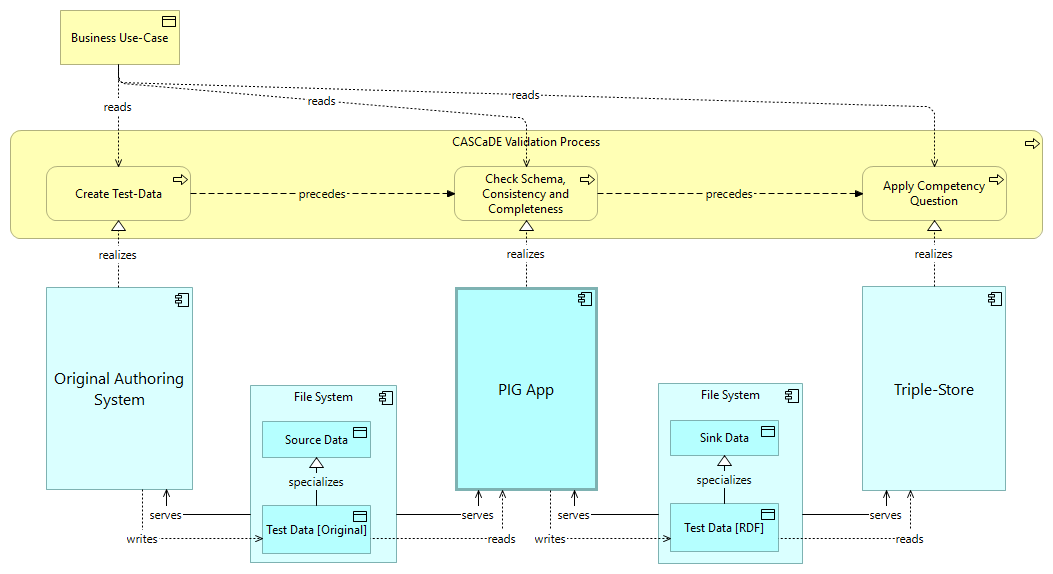
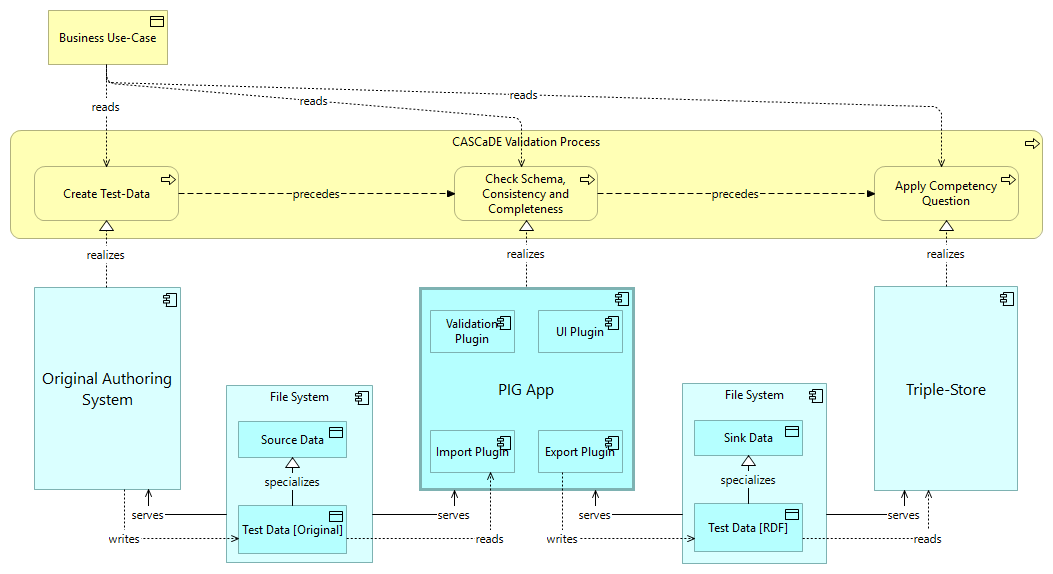
update validation concept

diff --git a/validation/process/index.html b/validation/process/index.html
@@ -1,84 +1,1 @@
-<?xml version="1.0" encoding="UTF-8"?>
-<!DOCTYPE html PUBLIC "-//W3C//DTD XHTML 1.1//EN" "http://www.w3.org/TR/xhtml11/DTD/xhtml11.dtd">
-<html xmlns="http://www.w3.org/1999/xhtml">
-	<head>
-		<link rel="stylesheet" href="https://cdn.jsdelivr.net/npm/bootstrap@5.3.3/dist/css/bootstrap.min.css" crossorigin="anonymous"/>
-		<link rel="stylesheet" type="text/css" href="./Styles/styles.css"/>
-		<title>PIG Validation</title>
-	</head>
-	<body>
-		<div class="container max-width-lg">
-			<div class="row">
-				<div class="col-12">
-					<div class="title">PIG Validation</div>
-				</div>
-			</div>
-			<div class="row">
-				<div class="col-12 col-md-3">
-					<h3 style="margin-top:2.4rem;">Content</h3>
-					<ul>
-						<li>
-							<a href="#H-ArchiMate-53122845">PIG Validation</a>
-						</li>
-						<ul>
-							<li>
-								<a href="#N--1446217915">Model Diagrams</a>
-							</li>
-						</ul>
-						<li>
-							<a href="#N-FolderGlossary-10053122845">Model Elements (Glossary)</a>
-						</li>
-					</ul>
-				</div>
-				<div class="col-12 col-md-9">
-					<h1 id="H-ArchiMate-53122845">PIG Validation</h1>
-					<p>The model shows a concept to validate the upcoming standard. </p>
-					<p>
-						<a href="https://cascade.gfse.org">CASCaDE</a> is a project to standardize collaboration in systems engineering with respect to data format and ontology. A <a href="https://www.omg.org/cgi-bin/doc?mantis/24-12-03.pdf">Request for Proposal (RFP)</a> has been accepted by OMG in December 2024. Information in different formats and from diverse sources are transformed and integrated to a common knowledge graph.</p>
-					<p>A publicly available reference implementation shall validate the concepts of the standard as developed by the CASCaDE submission team. Validation is successful, if real-world data is ingested and the information needs of all users in the product lifecycle are met. Users and software vendors are given the opportunity to influence the project to assure their ideas are taken aboard. A joint effort on fundamental features (where differentiation isn&#39;t possible anyways) avoids duplicate work, improves quality and assures interoperability.</p>
-					<h2 id="N--1446217915">Model Diagrams</h2>
-					<h3 id="N-353613390">▣&#160;&#160;Validation Workflow</h3>
-					<p>A process to validate the conceptional and technical choices made by the standard in preparation. This is preliminary and needs further discussion and detailing with the target users. Ultimately, the standard must satisfy their use-cases and needs in general.</p>
-					<p>Subject to validation:</p>
-					<ul>
-						<li>Has the <a href="https://cascade.gfse.org/results/Latest%20Metamodel/">PIG metamodel</a> enough expressive power to deal with real-world data?</li>
-						<li>Can the data be transformed between RDF/Turtle, JSON-LD and GQL without loss? In all directions and in a full round-trip?</li>
-						<li>Are the transformation results consistent, complete, comprehensible and finally useful?</li>
-						<li>Can the user&#39;s &#39;competency questions&#39; be satisfactorily answered?</li>
-					</ul>
-					<p>This model is authored with <a href="https://www.archimatetool.com/">Archi</a> using the ArchiMate 3.2 notation, then transformed to <a href="https://specif.de">SpecIF</a> via ArchiMate Open Exchange file format and then transformed to HTML. The PIG App will support a similar workflow (among others) for the source data formats chosen.</p>
-					<p>
-						<img src="./Images/F-1845497690.png" style="max-width:100%" alt="Validation Workflow.png"/>
-					</p>
-					<h1 id="N-FolderGlossary-10053122845">Model Elements (Glossary)</h1>
-					<h3 id="N-11117650302">&#x25A1;&#160;&#160;Apply Competency Question</h3>
-					<p>Once transformed to RDF/Turtle, still according to the PIG metamodel, user-defined competency questions shall be applied to the test-data. Those queries shall validate that the graph fulfills the information needs of the various user roles accessing the data. An important criterion is that the same (i.e. <em>standard</em>) queries yield the desired results with different data sets. Only then, normalization with repsect to syntax and semantics is successful. It is expected, however, that the competency questions, the queried, depend on the ontology with the the current set of <em>preferred terms</em>.</p>
-					<h3 id="N-11863653636">&#x25CB;&#160;&#160;Business Use-Case</h3>
-					<p>A set of use-cases describing the user&#39;s need. Must be exemplary (concrete), relevant and representative.</p>
-					<h3 id="N-8248320296">&#x25A1;&#160;&#160;CASCaDE Validation Process</h3>
-					<h3 id="N-9409445317">&#x25A1;&#160;&#160;Check Schema, Consistency and Completeness</h3>
-					<p>Once transformed according to the PIG metamodel, the data shall be checked with respect to schema (shape, format), consistency (constraints) and completeness. Both formally and by expert inspection.</p>
-					<h3 id="N-8618890478">&#x25A1;&#160;&#160;Create Test-Data</h3>
-					<p>Create test-data in original format as produced by popular authoring systems of the domain, for example IBM DOORS for requirement management or Cameo for systems engineering.</p>
-					<p>Initially, test-data should be small and cover relevant and typical aspects of the domain to drive and validate the development of transformations. Later on, real or near-real project data &#39;from the field&#39; with growing complexity should be supplied.</p>
-					<h3 id="N-11802892691">&#x25A1;&#160;&#160;File System</h3>
-					<p>A network file system. Consider to use</p>
-					<ul>
-						<li>Windows/MacOS/Linux NFS</li>
-						<li>Samba</li>
-						<li>Git</li>
-					</ul>
-					<h3 id="N-8583794264">&#x25A1;&#160;&#160;Original Authoring System</h3>
-					<h3 id="N-10373993524">&#x25A1;&#160;&#160;PIG App</h3>
-					<p>A web application for creating, reading, updating and deleting data elements per class. The app is configured by the classes loaded at initialization time. The classes govern the choice and the dialog layout for modifying the data. Thus, the same software is used for more or less complex applications.</p>
-					<h3 id="N-8429901407">&#x25CB;&#160;&#160;Sink Data</h3>
-					<h3 id="N-10709804402">&#x25CB;&#160;&#160;Source Data</h3>
-					<h3 id="N-10598076715">&#x25CB;&#160;&#160;Test Data [Original]</h3>
-					<h3 id="N-9862198495">&#x25CB;&#160;&#160;Test Data [RDF]</h3>
-					<h3 id="N-9356671768">&#x25A1;&#160;&#160;Triple-Store</h3>
-					<p>A standard database for knowledge graphs, e.g. Apache Fuseki.</p>
-				</div>
-			</div>
-		</div>
-	</body>
-</html>
+<?xml version="1.0" encoding="UTF-8"?><!DOCTYPE html PUBLIC "-//W3C//DTD XHTML 1.1//EN" "http://www.w3.org/TR/xhtml11/DTD/xhtml11.dtd"><html xmlns="http://www.w3.org/1999/xhtml"><head><link rel="stylesheet" href="https://cdn.jsdelivr.net/npm/bootstrap@5.3.3/dist/css/bootstrap.min.css" crossorigin="anonymous" /><link rel="stylesheet" type="text/css" href="./Styles/styles.css" /><title>PIG Validation</title></head><body><div class="container max-width-lg" ><div class="row" ><div class="col-12" ><div class="title">PIG Validation</div></div></div><div class="row" ><div class="col-12 col-md-3" ><h3 style="margin-top:2.4rem;">Content</h3><ul><li><a href="#H-ArchiMate-53122845">PIG App</a></li><ul><li><a href="#N--1446217915">Model Diagrams</a></li></ul><li><a href="#N-FolderGlossary-10053122845">Model Elements (Glossary)</a></li></ul></div><div class="col-12 col-md-9" ><h1 id="H-ArchiMate-53122845">PIG App</h1><p>This is the concept of the PIG App used to validate the standard in preparation.</p><p><a href="https://cascade.gfse.org">CASCaDE</a> is a project to standardize collaboration in systems engineering with respect to data format and ontology. A <a href="https://www.omg.org/cgi-bin/doc?mantis/24-12-03.pdf">Request for Proposal (RFP)</a> has been accepted by OMG in December 2024. Information in different formats and from diverse sources are transformed and integrated to a common knowledge graph.</p><p>A publicly available reference implementation shall validate the concepts of the standard as developed by the CASCaDE submission team. Validation is successful, if real-world data is ingested and the information needs of all users in the product lifecycle are met. Users and software vendors are given the opportunity to influence the project to assure their ideas are taken aboard. A joint effort on fundamental features (where differentiation isn&#39;t possible anyways) avoids duplicate work, improves quality and assures interoperability.</p><p>This model is authored with <a href="https://www.archimatetool.com/">Archi</a> using the ArchiMate 3.2 notation, then transformed to <a href="https://specif.de">SpecIF</a> via ArchiMate Open Exchange file format and then transformed to HTML. The PIG App will support a similar workflow (among others) for the source data formats chosen.</p><h2 id="N--1446217915">Model Diagrams</h2><h3 id="N-353613390">▣&#160;&#160;Validation Process</h3><p>A process to validate the conceptional and technical choices made by the standard in preparation. This is preliminary and needs further discussion and detailing with the target users. Ultimately, the standard must satisfy their use-cases and needs in general.</p><p>Subject to validation:</p><ul><li>Has the <a href="https://cascade.gfse.org/results/Latest%20Metamodel/">PIG metamodel</a> enough expressive power to deal with real-world data?</li><li>Can the data be transformed between RDF/Turtle, JSON-LD and GQL without loss? In all directions and in a full round-trip?</li><li>Are the transformation results consistent, complete, comprehensible and finally useful?</li><li>Can the user&#39;s &#39;competency questions&#39; be satisfactorily answered?</li></ul><p><img src="./Images/F-1845497690.png" style="max-width:100%" alt="Validation Workflow.png" /></p><h1 id="N-FolderGlossary-10053122845">Model Elements (Glossary)</h1><h3 id="N-11117650302">&#x25A1;&#160;&#160;Apply Competency Question</h3><p>Once transformed to RDF/Turtle, still according to the PIG metamodel, user-defined competency questions shall be applied to the test-data. Those queries shall validate that the graph fulfills the information needs of the various user roles accessing the data. An important criterion is that the same (i.e. <em>standard</em>) queries yield the desired results with different data sets. Only then, normalization with repsect to syntax and semantics is successful. It is expected, however, that the competency questions, the queried, depend on the ontology with the the current set of <em>preferred terms</em>.</p><h3 id="N-11863653636">&#x25CB;&#160;&#160;Business Use-Case</h3><p>A set of use-cases describing the user&#39;s need. Must be exemplary (concrete), relevant and representative.</p><h3 id="N-8248320296">&#x25A1;&#160;&#160;CASCaDE Validation Process</h3><h3 id="N-9409445317">&#x25A1;&#160;&#160;Check Schema, Consistency and Completeness</h3><p>Once transformed according to the PIG metamodel, the data shall be checked with respect to schema (shape, format), consistency (constraints) and completeness. Both formally and by expert inspection.</p><h3 id="N-8618890478">&#x25A1;&#160;&#160;Create Test-Data</h3><p>Create test-data in original format as produced by popular authoring systems of the domain, for example IBM DOORS for requirement management or Cameo for systems engineering.</p><p>Initially, test-data should be small and cover relevant and typical aspects of the domain to drive and validate the development of transformations. Later on, real or near-real project data &#39;from the field&#39; with growing complexity should be supplied.</p><h3 id="N-8912312860">&#x25A1;&#160;&#160;Export Plugin</h3><p>Transforms a selected subgraph from the internal data format according to the PIG metamodel to a desired output format.</p><p>The following transformations are planned for validating the approach (the standard to submit):</p><ul><li><a href="https://github.com/GfSE/CASCaDE-Reference-Implementation/issues/27">JSON-LD</a></li><li><a href="https://github.com/GfSE/CASCaDE-Reference-Implementation/issues/28">RDF/Turtle</a></li><li><a href="https://github.com/GfSE/CASCaDE-Reference-Implementation/issues/29">HTML</a></li><li><a href="https://github.com/GfSE/CASCaDE-Reference-Implementation/issues/30">LOTAR</a></li></ul><h3 id="N-11802892691">&#x25A1;&#160;&#160;File System</h3><p>A network file system. Consider to use</p><ul><li>Windows/MacOS/Linux NFS</li><li>Samba</li><li>Git</li></ul><h3 id="N-9565125429">&#x25A1;&#160;&#160;Import Plugin</h3><p>Transforms a source data format to the internal data format according to the PIG metamodel. A full transformation of the source data may not be necessary for the given use-cases, so emphasis is put on the <em>relevant</em> entities and relationships of the source data.</p><p>Transformations may use:</p><ul><li>XSLT in case of XML source data</li><li>Scripting</li></ul><p>The following transformations are planned for validating the approach (the standard tp submit):</p><ul><li><a href="https://github.com/GfSE/CASCaDE-Reference-Implementation/issues/25">ReqIF</a></li><li><a href="https://github.com/GfSE/CASCaDE-Reference-Implementation/issues/26">SysML v1</a></li><li><a href="https://github.com/GfSE/CASCaDE-Reference-Implementation/issues/4">STEP</a></li><li><a href="https://github.com/GfSE/CASCaDE-Reference-Implementation/issues/7">FMI/SSP</a></li><li><a href="https://github.com/GfSE/CASCaDE-Reference-Implementation/issues/6">LOTAR</a></li><li>...</li></ul><h3 id="N-8583794264">&#x25A1;&#160;&#160;Original Authoring System</h3><p>A system to create and maintain information somewhere in the product lifecycle. For example IBM DOORS for requirements management or Dassault Cameo for systems engineering.</p><h3 id="N-10373993524">&#x25A1;&#160;&#160;PIG App</h3><p>A web application for creating, reading, updating and deleting data elements per class. The app is configured by the classes loaded at initialization time. The classes govern the choice and the dialog layout for modifying the data. Thus, the same software is used for more or less complex applications.</p><p>The architecture includes a plugin mechanism to allow the deployment of new transformations or storage adapters without building and deploying a complete new image, for details see <a href="https://github.com/GfSE/CASCaDE-Reference-Implementation/issues/21">&#39;Design Plugin Mechanism&#39;</a>.</p><p>A major challenge is an optimal design of the programming class structure (&#39;scaffold&#39;), the representation in JSON-LD, RDF/Turtle and GQL according to the <a href="https://cascade.gfse.org/results/Latest%20Metamodel/">PIG metamodel</a>. Goal is to allow easy transformations between all representations. For details see <a href="https://github.com/GfSE/CASCaDE-Reference-Implementation/issues/22">Optimize the &#39;magic tetrahedron&#39;</a>.</p><p>Details of the development, build, integration and deployment environment are discussed in <a href="https://github.com/GfSE/CASCaDE-Reference-Implementation/issues/14">&#39;Select Development Environment and Programming Language&#39;</a>.</p><p>Further aspects:</p><ul><li>Reporting Interface (e.g. Power-BI), server-side per API or client-side per file (export plugin).</li><li>Permission Management</li></ul><h3 id="N-8429901407">&#x25CB;&#160;&#160;Sink Data</h3><p>The most general term for data produced by the PIG App for further processing.</p><h3 id="N-10709804402">&#x25CB;&#160;&#160;Source Data</h3><p>The most general term for data ingested by the PIG App from previous processing steps.</p><h3 id="N-10598076715">&#x25CB;&#160;&#160;Test Data [Original]</h3><p>Test data in a format provided by an <a href="#N-8583794264">Original Authoring System</a>.</p><h3 id="N-9862198495">&#x25CB;&#160;&#160;Test Data [RDF]</h3><p>Test data in RDF/Turtle format to allow further processing and reasoning with tools of the RDF ecosystem.</p><h3 id="N-9356671768">&#x25A1;&#160;&#160;Triple-Store</h3><p>A standard database for knowledge graphs, e.g. Apache Fuseki.</p><h3 id="N-11445597191">&#x25A1;&#160;&#160;UI Plugin</h3><p>User Interface, such as</p><ul><li>viewer,</li><li>editor by forms or diagramming.</li></ul><p>The user-interface is class-driven, i.e.the details of the entity, relationship or organizer classes with their respective property classes determine the UI. For example, an editing form for a class with three property classes will have 3 fields expecting input according to its dataype and range. Or a graphical editor for a UML interaction diagram will will present a tailored pallette with drawing rules for interaction diagrams.</p><h3 id="N-9079651689">&#x25A1;&#160;&#160;Validation Plugin</h3><p>Validates a package or a collection of packages, with</p><ul><li>schema checking</li><li>constraint/consistency checking.</li></ul></div></div></div></body></html>
